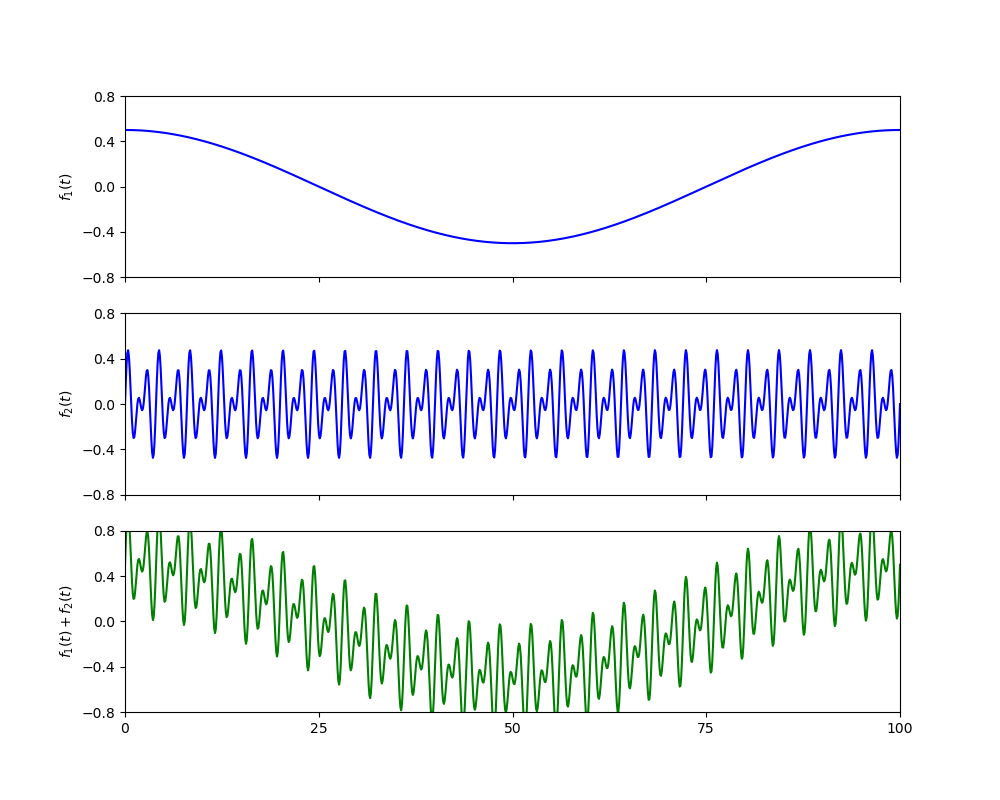
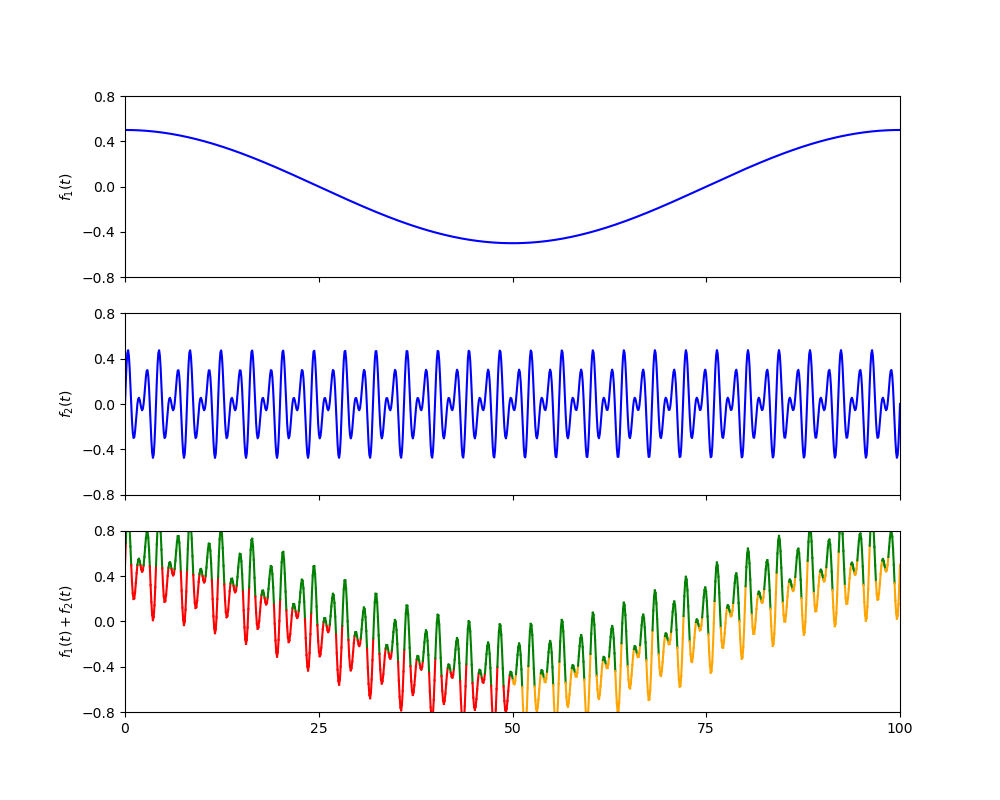
IZV gpt helped me color the third graph :)

Changed region(s): [[0.124, 0.6875, 0.899, 0.9062]]

diff --git a/5.semestr/IZV/part01.py b/5.semestr/IZV/part01.py
@@ -83,15 +83,26 @@ def generate_sinus(show_figure: bool = False, save_path: str | None = None):
     ax[1].tick_params(axis='x', labelbottom=False)
     ax[1].set_ylabel("$f_{2}(t)$")
 
-
-
     # Third subplot: Tangent function
-    ax[2].plot(x, y3, label='Tangent', color='g')
+
+    for i in range(len(x) - 1):
+        if y3[i] > y1[i]:
+            color = 'green'
+        elif x[i] <= 50:
+            color = 'red'
+        else:
+            color = 'orange'
+        
+        ax[2].plot(x[i:i+2], y3[i:i+2], color=color)
+
+
+    #ax[2].plot(x, y3, color='g')
     ax[2].set_xlim(0,100)
     ax[2].set_xticks(xticks)
     ax[2].set_ylim(-0.8, 0.8)
     ax[2].set_yticks(yticks)
     ax[2].set_ylabel("$f_{1}(t) + f_{2}(t)$")
+
 
 
     if save_path:
@@ -115,6 +126,7 @@ def format_func(value, tick_number):
 
     else:
         return f"${N // 2}\pi$"
+    
 
 if __name__ == "__main__":
     generate_graph([7, 4, 3])

diff --git a/5.semestr/IMP/src/main.c b/5.semestr/IMP/src/main.c
@@ -7,13 +7,6 @@
 
 void app_main(void)
 {
-    // Initialize NVS (Non-Volatile Storage)
-    esp_err_t ret = nvs_flash_init();
-    if (ret == ESP_ERR_NVS_NO_FREE_PAGES || ret == ESP_ERR_NVS_NEW_VERSION_FOUND) {
-      ESP_ERROR_CHECK(nvs_flash_erase());
-      ret = nvs_flash_init();
-    }
-    ESP_ERROR_CHECK(ret);
 
     // Print "Hello, World!" once to the console
     printf("Hello, World!\n");
